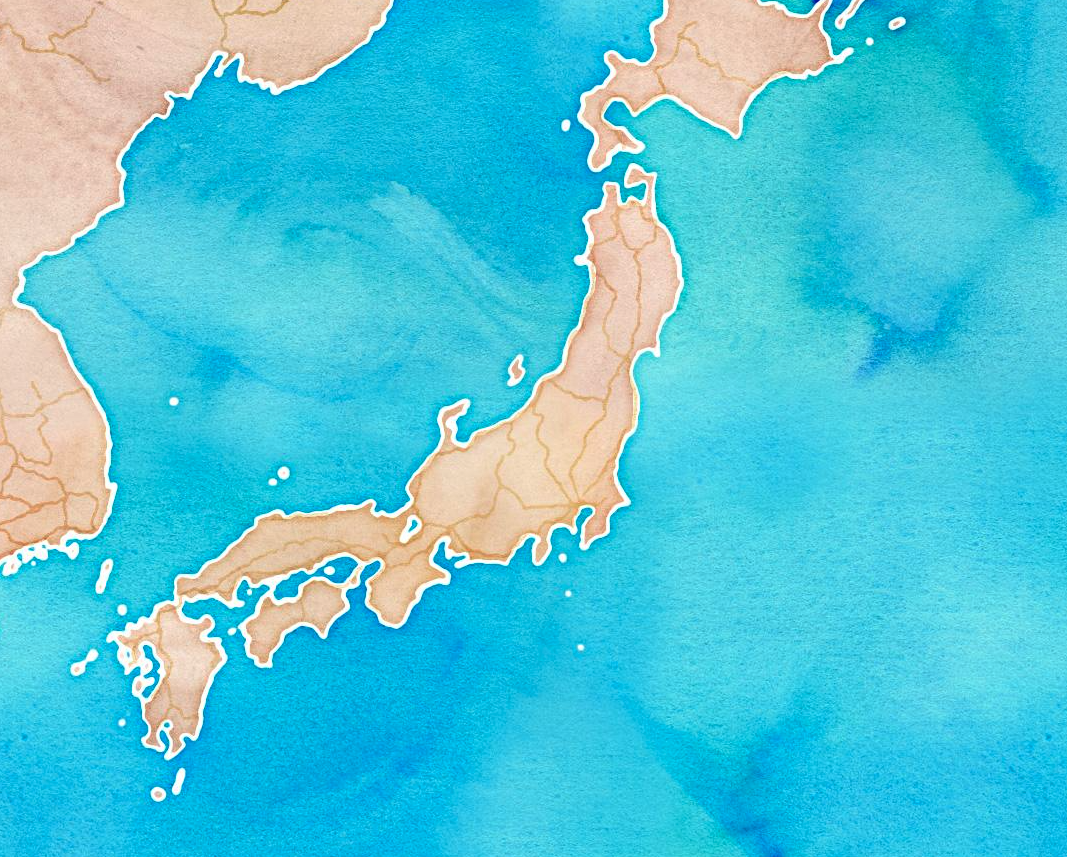
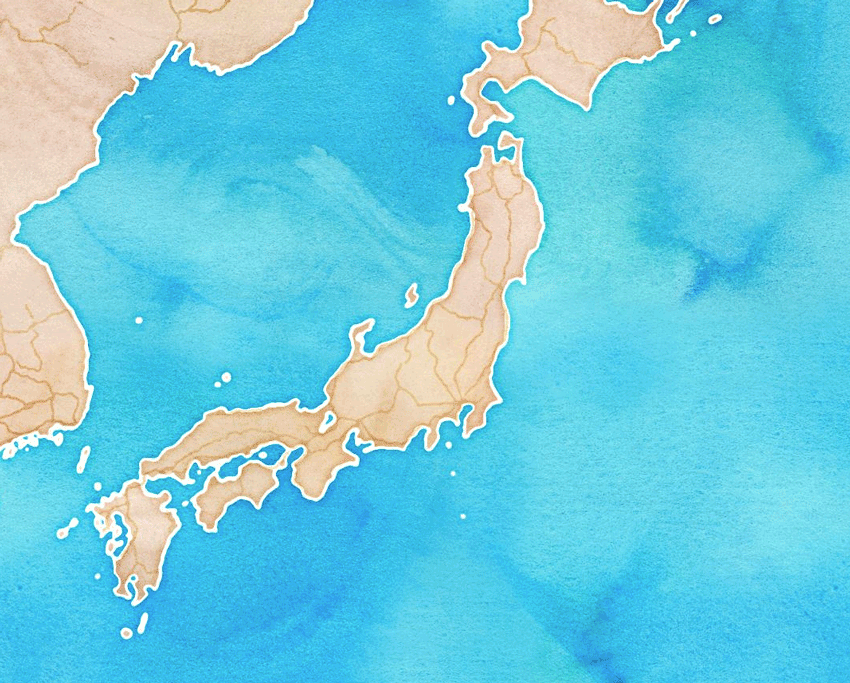
image optimised and contact details

diff --git a/index.html b/index.html
@@ -68,9 +68,9 @@
             <div class="col-sm-4 offset-md-1 pt-4 pb-3">
               <h4 class="text-white">Contact</h4>
               <ul class="list-unstyled">
-                <li><a href="#" class="text-white">Follow on Twitter</a></li>
-                <li><a href="#" class="text-white">Like on Facebook</a></li>
-                <li><a href="#" class="text-white">Email me</a></li>
+                <li><a href="https://twitter.com/LockdownTours" class="text-white" target="_blank">Follow on Twitter</a></li>
+                <!-- <li><a href="#" class="text-white">Like on Facebook</a></li> -->
+                <li><a href="mailto:lockdowntours@gmail.com" class="text-white" target="_blank">Email me</a></li>
               </ul>
             </div>
           </div>

diff --git a/register.html b/register.html
@@ -53,9 +53,9 @@
             <div class="col-sm-4 offset-md-1 pt-4 pb-3">
               <h4 class="text-white">Contact</h4>
               <ul class="list-unstyled">
-                <li><a href="#" class="text-white">Follow on Twitter</a></li>
-                <li><a href="#" class="text-white">Like on Facebook</a></li>
-                <li><a href="#" class="text-white">Email me</a></li>
+                <li><a href="https://twitter.com/LockdownTours" class="text-white" target="_blank">Follow on Twitter</a></li>
+                <!-- <li><a href="#" class="text-white">Like on Facebook</a></li> -->
+                <li><a href="mailto:lockdowntours@gmail.com" class="text-white" target="_blank">Email me</a></li>
               </ul>
             </div>
           </div>
